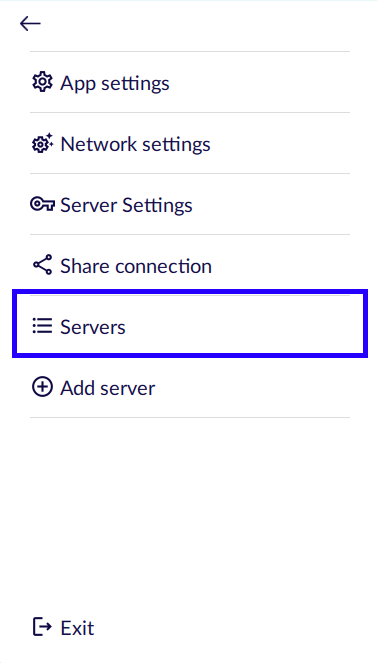
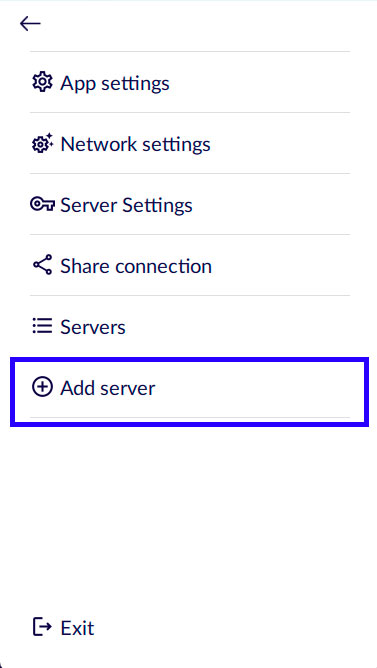
- instruction update

diff --git a/docs/ru/guides/connect-file-v2/index.html b/docs/ru/guides/connect-file-v2/index.html
@@ -71,7 +71,7 @@
                     Подключиться через файл конфигурацией вы сможете на первой
                     странице приложения при запуске.
                 </h2>
-                <p>Ваш файл должен иметь формат <span class="price">.config</span></p>
+                <p>Ваш файл должен иметь формат <span class="price">.vpn</span></p>
 
                 <div class="instr-section-grid-image-text">
                     <div class="instr-section-grid__image-col">
@@ -93,9 +93,6 @@
         <div class="block block-guide-step">
           <div class="step-2-inner">
               <h2 class="header header-step">Добавление сервера через файл конфигурации после первой установки.</h2>
-              <div class="text text-step">
-                  Если вы уже установили сервер, и хотите добавить еще один, вы можете сделать это двумя способами:
-              </div>
 
               <div class="instr-section-grid-image-text">
                   <div class="instr-section-grid__image-col">
@@ -104,7 +101,7 @@
                   <div class="instr-section-grid__text-col">
                       <div>
                           <div class="text">
-                              Кликните на сервер, откроется экран со всеми вашими установленными серверами
+                              Кликните на шестеренку в правом верхнем углу приложения, откроется экран со всеми настройками.
                           </div>
                       </div>
                   </div>
@@ -117,8 +114,7 @@
                   <div class="instr-section-grid__text-col">
                       <div>
                           <div class="text">
-                              Или кликните на значок настроек в правом верхнем углу экрана, а затем выберете серверы
-                              <span class="price">“Servers”</span>
+                              Затем выберете добавить сервер “Add Server”.
                           </div>
                       </div>
                   </div>
@@ -131,13 +127,10 @@
                   <div class="instr-section-grid__text-col">
                       <div>
                           <div class="text">
-                              Кликните на знак <span class="price">“+”</span> чтобы добавить сервер
+                              Загрузите файл, для этого кликните <span class="price">“open file”</span> и выберете файл. Файл должен быть в формате <span class="price">.vpn</span>
                           </div>
                       </div>
                   </div>
-              </div>
-              <div class="text">
-                  Загрузите файл, для этого кликните <span class="price">“open file”</span> и выберете файл. Файл должен быть в формате <span class="price">.config</span>
               </div>
           </div>
         </div>

diff --git a/docs/en/guides/connect-file-v2/index.html b/docs/en/guides/connect-file-v2/index.html
@@ -71,7 +71,7 @@
                     You can connect through the configuration file on the first application page
                     on startup.
                 </h2>
-                <p>Your file must be in  <span class="price">.config</span> format</p>
+                <p>Your file must be in  <span class="price">.vpn</span> format</p>
 
                 <div class="instr-section-grid-image-text">
                     <div class="instr-section-grid__image-col">
@@ -92,9 +92,6 @@
         <div class="block block-guide-step">
           <div class="step-2-inner">
               <h2 class="header header-step">Adding a server through a configuration file after the first installation.</h2>
-              <div class="text text-step">
-                  If you have already installed a server and want to add another one, you can do it in two ways:
-              </div>
 
               <div class="instr-section-grid-image-text">
                   <div class="instr-section-grid__image-col">
@@ -103,8 +100,7 @@
                   <div class="instr-section-grid__text-col">
                       <div>
                           <div class="text">
-                              Click on a <span class="price">"Server"</span> and a screen will open
-                              with all your installed servers
+                              Click on the gear in the upper right corner of the application, a screen with all the settings will open.
                           </div>
                       </div>
                   </div>
@@ -117,8 +113,7 @@
                   <div class="instr-section-grid__text-col">
                       <div>
                           <div class="text">
-                              Or click on the settings icon in the upper right corner of the screen, and then select
-                              <span class="price">“Servers”</span>
+                              Then choose "Add Server".
                           </div>
                       </div>
                   </div>
@@ -131,13 +126,10 @@
                   <div class="instr-section-grid__text-col">
                       <div>
                           <div class="text">
-                              To add a server, click on the <span class="price">“+”</span> sign.
+                              Upload the file, to do this, click <span class="price">“open file”</span> and select the file. The file must be in <span class="price">.vpn</span> format.
                           </div>
                       </div>
                   </div>
-              </div>
-              <div class="text">
-                  Upload the file, to do this, click <span class="price">“open file”</span> and select the file. The file must be in <span class="price">.config</span> format.
               </div>
           </div>
         </div>
